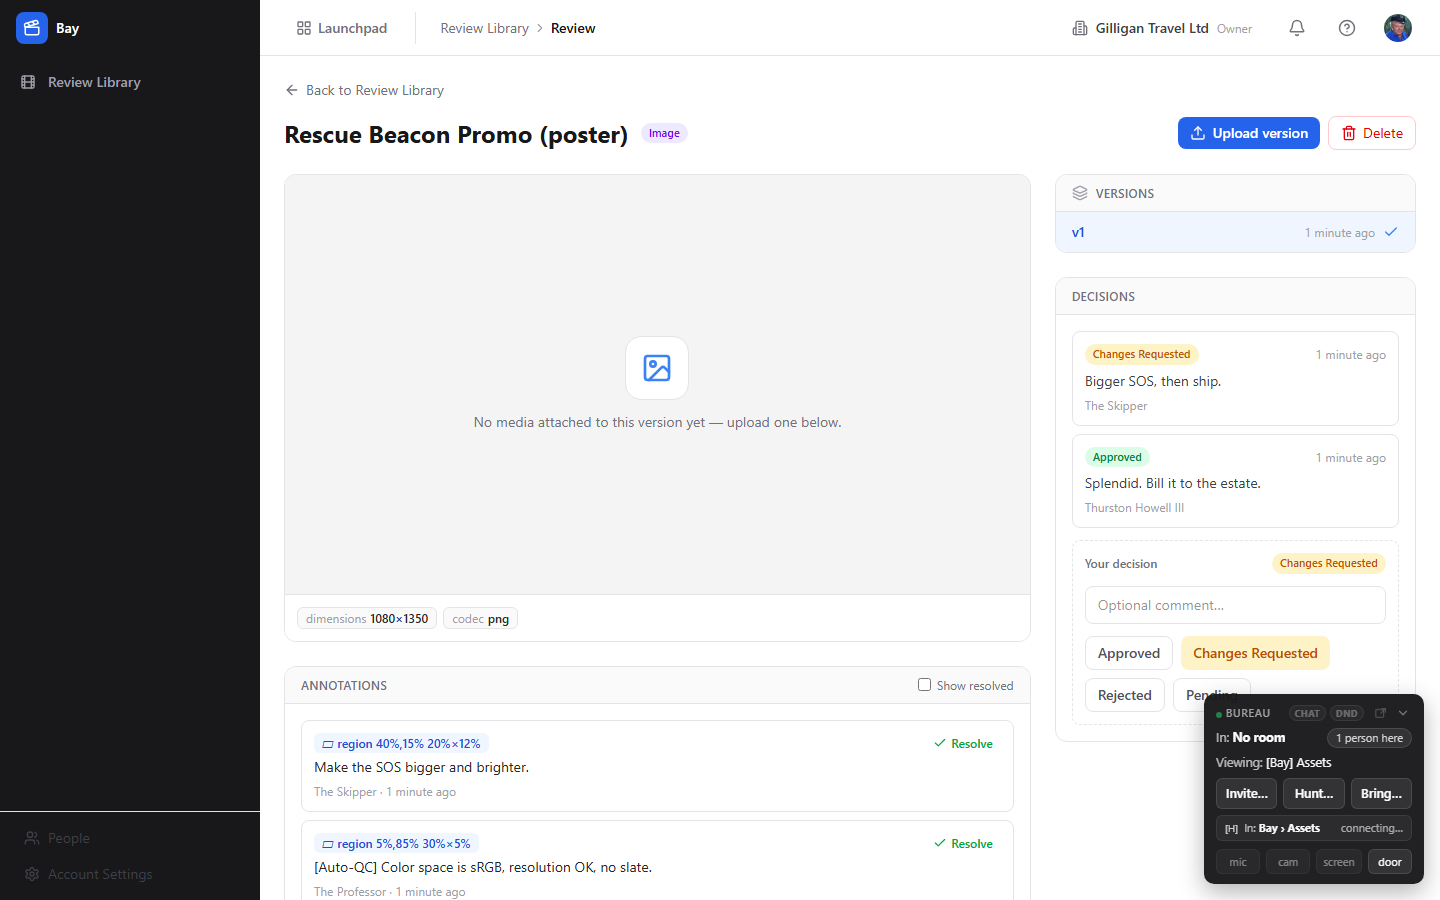
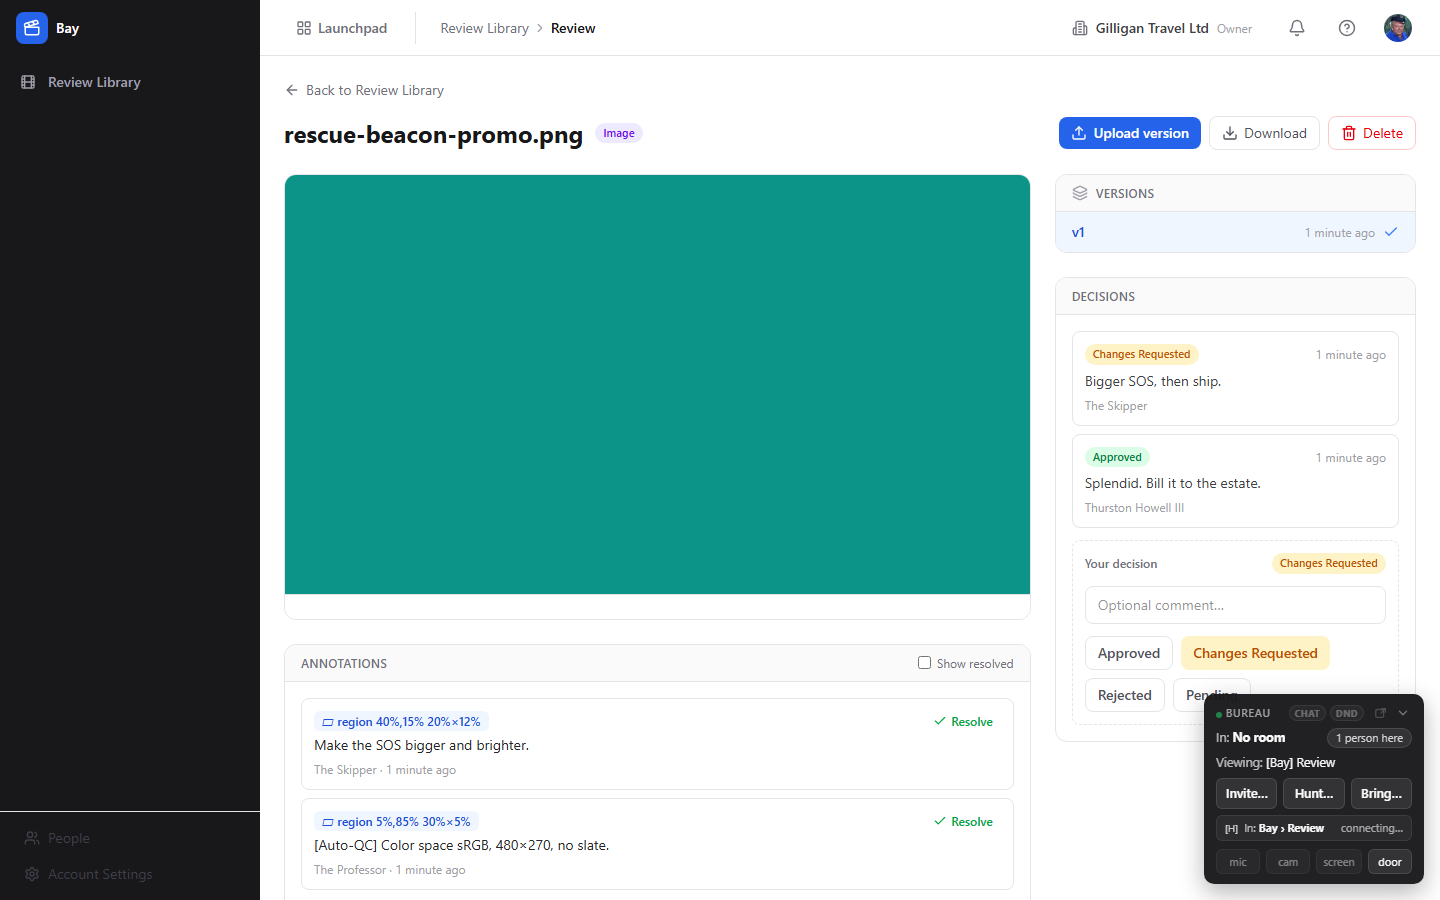
docs: screenshots — unified Bin folder/tag browser + Bay media review (real preview, names)

diff --git a/scripts/screenshots-bay.js b/scripts/screenshots-bay.js
@@ -57,29 +57,29 @@ async function safe(label, fn) {
     await snap(page, 'bay-review-library.png', 'Bay review library (Gilligan rescue creative)');
   });
 
-  // ===== BAY: Review page (open the poster) =====
+  // ===== BAY: Review page (open the poster image — real preview + capture toolbar) =====
   await safe('bay review page', async () => {
     await page.goto('http://localhost/bay/', { waitUntil: 'domcontentloaded', timeout: 15000 });
     await page.waitForTimeout(1200);
-    const row = page.locator('table tbody tr', { hasText: 'Rescue Beacon Promo' }).first();
+    const row = page.locator('table tbody tr', { hasText: 'rescue-beacon-promo' }).first();
     if (await row.count()) {
       await row.click();
     } else {
       await page.locator('table tbody tr').first().click();
     }
-    await page.waitForTimeout(1800);
-    await snap(page, 'bay-review-page.png', 'Bay review page — annotations + decisions');
+    await page.waitForTimeout(2200);
+    await snap(page, 'bay-review-page.png', 'Bay review — image preview, capture toolbar, annotations, decisions');
   });
 
-  // ===== BAY: Video review page (regression — used to blank on timerange anchors) =====
-  await safe('bay video review page', async () => {
+  // ===== BAY: Audio review (real WAV preview + timecode annotations) =====
+  await safe('bay audio review page', async () => {
     await page.goto('http://localhost/bay/', { waitUntil: 'domcontentloaded', timeout: 15000 });
     await page.waitForTimeout(1200);
-    const row = page.locator('table tbody tr', { hasText: 'Castaway Rescue Reel' }).first();
+    const row = page.locator('table tbody tr', { hasText: 'coconut-radio-jingle' }).first();
     if (await row.count()) {
       await row.click();
-      await page.waitForTimeout(1800);
-      await snap(page, 'bay-review-video.png', 'Bay video review page (no longer crashes)');
+      await page.waitForTimeout(2000);
+      await snap(page, 'bay-review-audio.png', 'Bay audio review (no crash, timecode annotations, names)');
     }
   });
 
